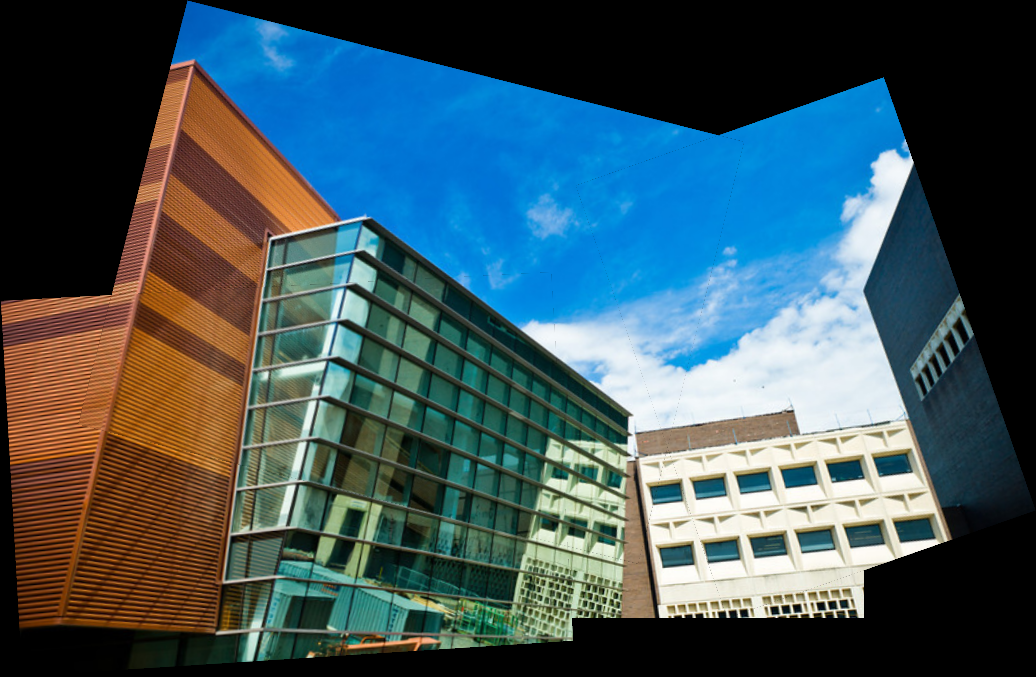
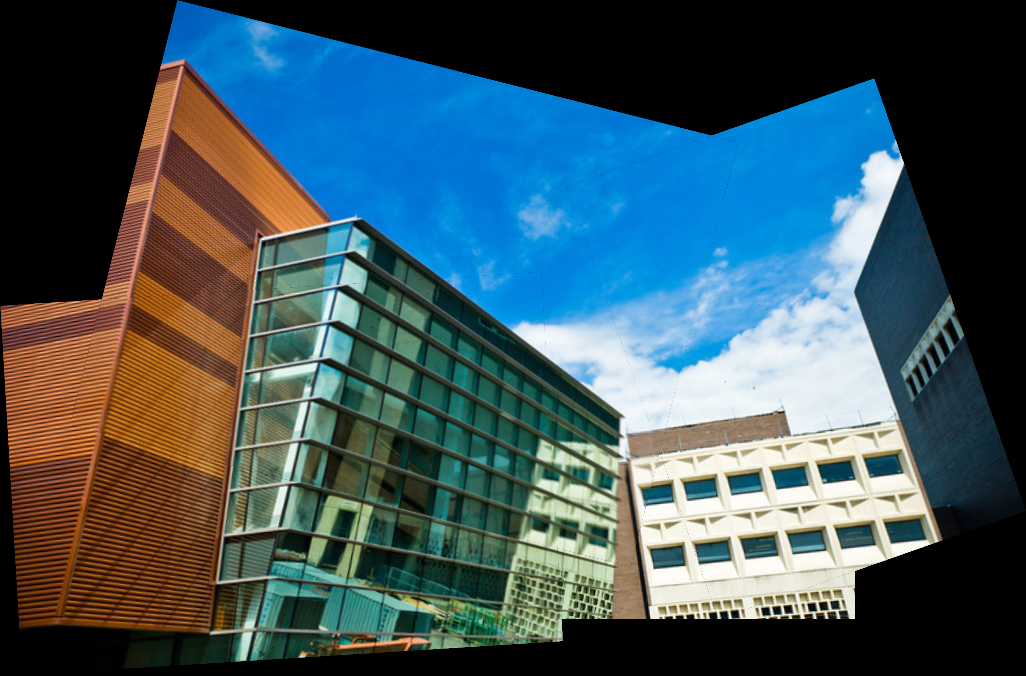
refine panorama

diff --git a/stitching.py b/stitching.py
@@ -5,6 +5,7 @@ Notes:
 3. If you want to show an image for debugging, please use show_image() function in util.py. 
 4. Please do NOT save any intermediate files in your final submission.
 '''
+from numpy import degrees
 import torch
 import kornia as K
 from typing import Dict
@@ -18,13 +19,13 @@ Please do NOT add any imports. The allowed libraries are already imported for yo
 
 # helper functions for task 1
 def to_float_bchw(img: torch.Tensor) -> torch.Tensor:
-    # Convert image to float and add batch dimension
+    # converting image to float and add batch dimension
     if img.dtype != torch.float32:
         img = img.float() / 255.0
     return img.unsqueeze(0)
 
 def to_grayscale(img_bchw: torch.Tensor) -> torch.Tensor:
-    # Convert RGB image to grayscale for feature extraction
+    # converting RGB image to grayscale for feature extraction
     return K.color.rgb_to_grayscale(img_bchw)
 
 def extract_sift_features(gray_bchw: torch.Tensor, num_features: int = 800):
@@ -38,7 +39,6 @@ def extract_sift_features(gray_bchw: torch.Tensor, num_features: int = 800):
         lafs: local affine frames for the keypoints
         descs: SIFT descriptors for the keypoints 
     """
-    # SIFTFeature does detection and description in one step, returning local affine frames and descriptors
     sift = K.feature.SIFTFeature(num_features=num_features)
     lafs, responses, descs = sift(gray_bchw)
     return lafs, descs
@@ -250,6 +250,7 @@ def compute_pairwise_homography(lafs1, desc1, lafs2, desc2, min_matches: int = 2
         matched_pts2.unsqueeze(0),
         matched_pts1.unsqueeze(0)
     )
+    H_21 = make_affine(H_21)
 
     return H_21, True, num_inliers
 
@@ -315,7 +316,7 @@ def build_global_canvas(images_bchw, transforms_to_ref):
 
     return out_h, out_w, T
 
-def blend_many_images(warped_images, warped_masks) -> torch.Tensor:
+def blend_multi_image(warped_images, warped_masks) -> torch.Tensor:
     """
     Blend multiple warped images together using their masks to handle overlaps.
     Args:
@@ -338,6 +339,36 @@ def blend_many_images(warped_images, warped_masks) -> torch.Tensor:
     acc_mask = torch.clamp(acc_mask, min=1.0)
     blended = acc_img / acc_mask
     return blended
+
+def normalize_homography(H: torch.Tensor) -> torch.Tensor:
+    """
+    Normalize a homography matrix so that the bottom-right value is 1.
+    Args:
+        H: 1x3x3 or 3x3 homography matrix
+    Returns:
+        H_normalized: normalized homography matrix
+    """
+    if H.dim() == 3:
+        H = H[0]
+    H = H / H[2, 2].clamp(min=1e-8)
+    return H.unsqueeze(0)
+
+def make_affine(H: torch.Tensor) -> torch.Tensor:
+    """
+    Convert a homography to an affine transformation by zeroing out the projective components.
+    Args:
+        H: 1x3x3 or 3x3 homography matrix
+    Returns:
+        H_affine: 1x3x3 affine transformation matrix
+    """
+    if H.dim() == 3:
+        H = H[0]
+
+    H[2, 0] = 0.0
+    H[2, 1] = 0.0
+    H[2, 2] = 1.0
+
+    return H.unsqueeze(0)
 
 # main task 1 function
 def stitch_background(imgs: Dict[str, torch.Tensor]):
@@ -503,9 +534,9 @@ def panorama(imgs: Dict[str, torch.Tensor]):
                 pair_H[i][j] = H_ji
                 pair_H[j][i] = invert_homography(H_ji)
 
-    # choosing reference image as the one with most overlaps
-    degrees = overlap.sum(dim=1)
-    ref_idx = int(torch.argmax(degrees).item())
+    # determining reference frame
+    ref_degree = overlap.sum(dim=1)
+    ref_idx = int(torch.argmax(ref_degree))
 
     # computing homographies to the reference frame using BFS
     transforms_to_ref = [None for _ in range(n)]
@@ -524,7 +555,16 @@ def panorama(imgs: Dict[str, torch.Tensor]):
             if visited[nxt]:
                 continue
 
-            transforms_to_ref[nxt] = transforms_to_ref[cur] @ pair_H[cur][nxt]
+            if pair_H[ref_idx][nxt] is not None:
+                H_direct = normalize_homography(pair_H[ref_idx][nxt])
+                transforms_to_ref[nxt] = make_affine(H_direct)
+            else:
+                H_new = transforms_to_ref[cur] @ pair_H[cur][nxt]
+                H_new = normalize_homography(H_new)
+                H_new = make_affine(H_new)
+
+                transforms_to_ref[nxt] = H_new
+
             visited[nxt] = True
             queue.append(nxt)
 
@@ -534,6 +574,12 @@ def panorama(imgs: Dict[str, torch.Tensor]):
     if len(connected_indices) == 0:
         img = imgs[names[0]]
         return img, overlap
+    
+    valid = torch.zeros_like(overlap)
+    for i in connected_indices:
+        for j in connected_indices:
+            valid[i, j] = overlap[i, j]
+    overlap = valid
 
     # building output canvas from connected images only
     connected_images = [images_bchw[i] for i in connected_indices]
@@ -569,7 +615,7 @@ def panorama(imgs: Dict[str, torch.Tensor]):
         warped_images.append(warped)
         warped_masks.append(warped_mask)
 
-    panorama_image = blend_many_images(warped_images, warped_masks)
+    panorama_image = blend_multi_image(warped_images, warped_masks)
 
     panorama_image = panorama_image.squeeze(0).clamp(0.0, 1.0)
     panorama_image = (panorama_image * 255.0).round().to(torch.uint8)